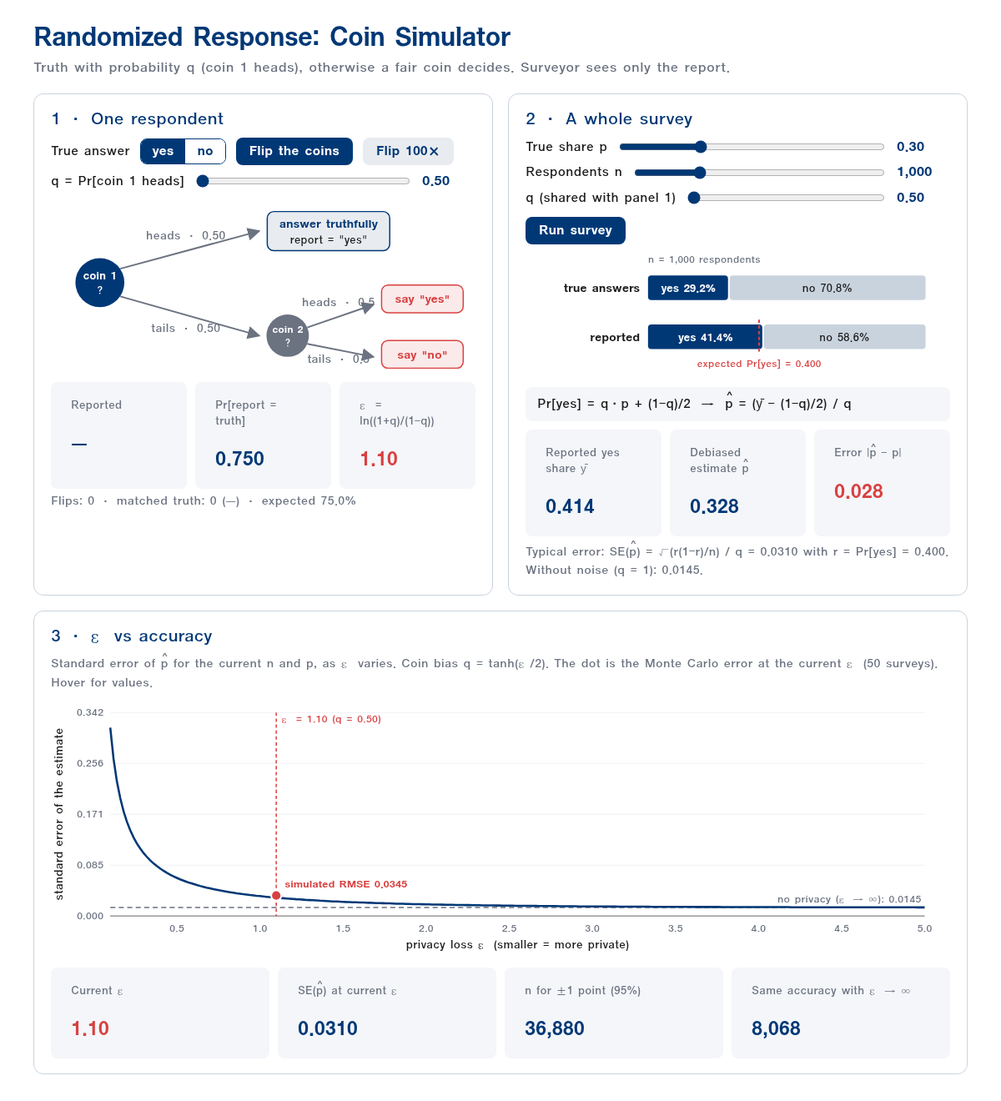
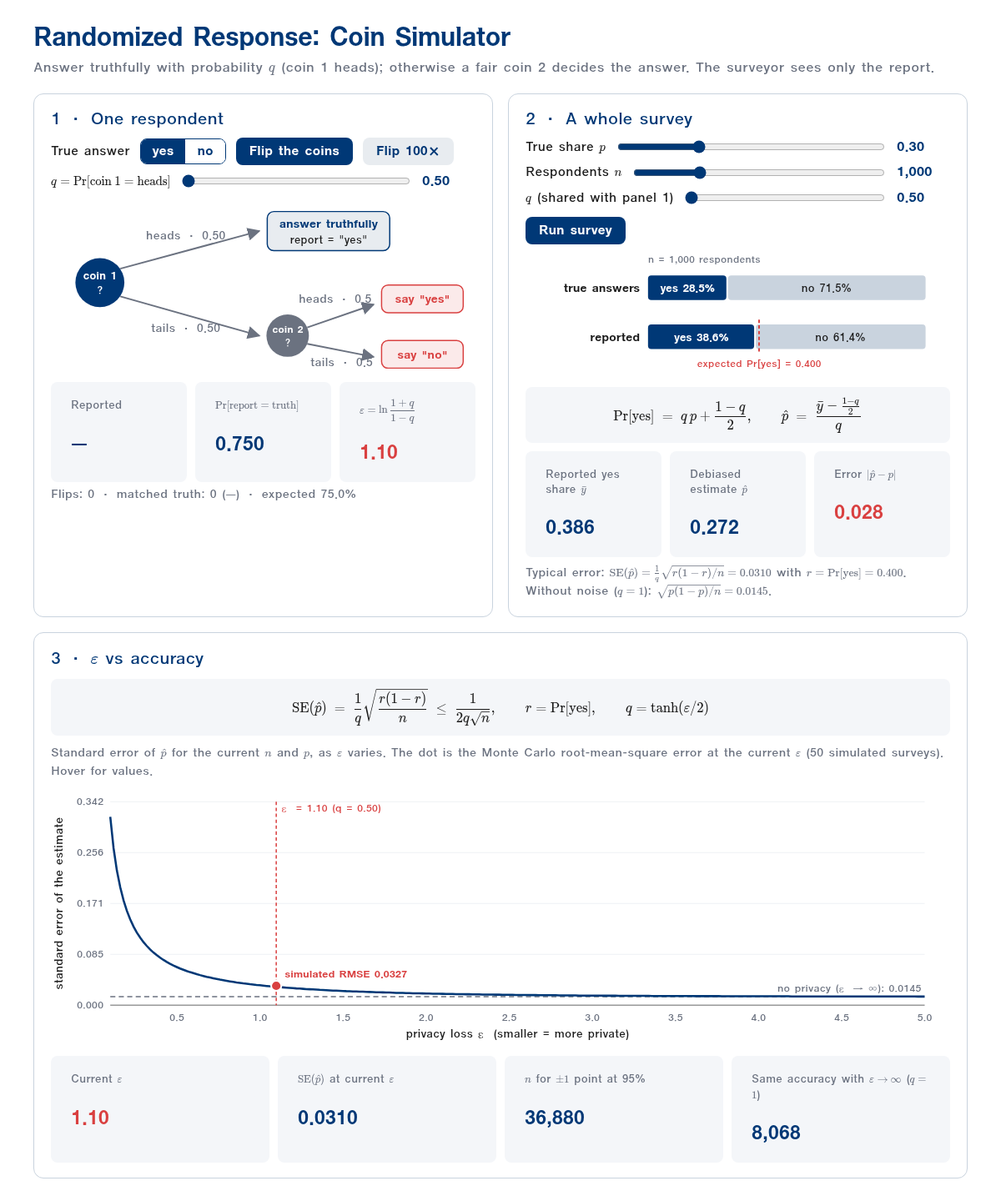
trustworthy-ai lec02: second review round (share gloss, ε-setups note, drop PCC promises, KaTeX demo)
Per Albert's follow-up on PR #27:

- "What the Paper Reported": column renamed "Smallest share detected" with a
  one-line gloss (share = one person's fraction of the pooled DNA); note
  explains how to read the table as cohort sizes.
- "ε in the Wild: Two Setups": note detail expanded — Apple count-mean sketch,
  daily caps, retention, what came out, what the per-donation bound means;
  Census 2010 reconstruction motivation, TopDown hierarchy / invariants /
  post-processing, zCDP→ε conversion, release date, what the global bound means.
- Dropped "Private Cloud Compute: Four Promises" (94→93 slides); its note
  content merged into the "Privacy in the Stack" detail.
- demos/rr-simulator.html: all formulas rendered with KaTeX (local
  reference/katex), including the dynamic SE note and hover tooltip;
  screenshot regenerated.
- OUTLINE pointers and counts updated; lint + outline-lint clean.

diff --git a/courses/trustworthy-ai/lec02-privacy-dp-note.html b/courses/trustworthy-ai/lec02-privacy-dp-note.html
@@ -303,8 +303,8 @@ $$1 \le p + e^{\varepsilon} q \qquad\text{and}\qquad 1 \le q + e^{\varepsilon} p
 
 <article>
 <h2>What the Paper Reported</h2>
-<p>Homer's group did not stop at simulation. They pooled real DNA into mixtures, ran them on three commercial genotyping arrays, and tested every person in the HapMap reference set against each mixture. Everyone in the mixture scored high, everyone outside scored near zero, with no overlap in mixtures of 40 or more people, including one where a single person contributed a tenth of one percent. The table gives the resolution: ten to twenty-five thousand SNPs already resolve a contributor below one percent; the full array of half a million resolves below a tenth of a percent. Point out why 0.1% matters: a cohort of a thousand makes each member exactly that share.</p>
-<p><span class="kt">Key takeaway:</span> On real arrays, the attack finds a 0.1% contributor with zero false positives.</p>
+<p>Homer's group did not stop at simulation. They pooled real DNA into mixtures, ran them on three commercial genotyping arrays, and tested every person in the HapMap reference set against each mixture. Everyone in the mixture scored high, everyone outside scored near zero, with no overlap in mixtures of 40 or more people, including one where a single person contributed a tenth of one percent. Explain the table's second column before reading it: a person's <em>share</em> is the fraction of the pooled DNA that came from them, so in a 1,000-person GWAS cohort every member is a 0.1% share, and in a 100-person study each is 1%. "Smallest share detected" is the smallest such fraction at which the test still separates members from non-members at $p \lt 10^{-6}$. Read the rows as cohort sizes: ten to twenty-five thousand SNPs already detect a member of a cohort of about a hundred; fifty thousand SNPs detect a member of a thousand-person cohort when the array noise is low; the full half-million SNPs go below that. The smaller the detectable share, the larger the study whose published averages leak membership, which is why the standard 500,000-SNP array made every ordinary GWAS vulnerable.</p>
+<p><span class="kt">Key takeaway:</span> "Share" is one person's fraction of the pool; the attack detects a 0.1% share, i.e. one member of a 1,000-person cohort, with zero false positives.</p>
 <div class="detail">
 <h3>Background &amp; further reading</h3>
 <ul>
@@ -536,11 +536,15 @@ $$\Pr[M(D_0) \in S] \le e^{\varepsilon} \Pr[M(D_1) \in S] \le e^{2\varepsilon} \
 <p><span class="kt">Key takeaway:</span> Local per-donation budgets and one central global budget are not the same kind of number.</p>
 <div class="detail">
 <h3>Background &amp; further reading</h3>
-<p><strong>Apple.</strong> Apple's whitepaper documents per-feature, per-donation budgets: $\varepsilon = 4$ for Lookup Hints (two donations/day), $\varepsilon = 4$ for emoji (one/day), $\varepsilon = 8$ for QuickType (two/day), $\varepsilon = 2$ for Health types (one/day), renewed daily. Reports are hashed and bit-flipped on device (a count-mean-sketch), the IP address is dropped on receipt, and only aggregate histograms are kept.</p>
-<p><strong>US Census 2020.</strong> The Bureau's TopDown algorithm in the Disclosure Avoidance System (DAS) was the first DP deployment for a decennial census. Parameters announced June 9, 2021 for the redistricting (P.L. 94-171) release: global $\varepsilon = 19.61$, split as $\varepsilon = 17.14$ for the persons file and $\varepsilon = 2.47$ for housing units. The resident population counted was 331,449,281.</p>
+<p><strong>Apple (local model).</strong> Apple's whitepaper documents per-feature, per-donation budgets: $\varepsilon = 4$ for Lookup Hints (two donations/day), $\varepsilon = 4$ for emoji (one/day), $\varepsilon = 8$ for QuickType new words (two/day), $\varepsilon = 2$ for Health types (one/day), renewed daily. The mechanism is a <em>count-mean sketch</em>: the device hashes the item into a vector, flips each bit with probability $1/(1+e^{\varepsilon/2})$, and uploads one randomized row per donation; the server averages rows into a histogram and debiases it exactly as the coin protocol does. Reports lose their IP address on receipt, carry no device identifier, are kept for at most three months, and the system is opt-in. Only categorical items from a fixed dictionary can be learned; nothing about an individual user is estimable from one row. What came out, per Apple's 2017 report: the most-used emoji by keyboard locale (the "face with tears of joy" leading in English, the red heart in French), newly popular words not in the QuickType dictionary, and Safari domains that drain energy or auto-play video.</p>
+<p><strong>What Apple's number bounds.</strong> One donation: the server's likelihood ratio between "this user typed item A" and "typed item B" is at most $e^{4}\approx 55$ or $e^{8}\approx 3000$ for that one row, from that one day. It does <em>not</em> bound what accumulates over weeks of daily donations, which is the gap the next slide's audit exploits.</p>
+<p><strong>US Census 2020 (central model).</strong> The Bureau's motivation was its own reconstruction experiment on the 2010 tables: solving the published block-level counts recovered a record (block, sex, age, race, ethnicity) for every one of 308.7 million people, and matching those records to commercial data re-identified 46% of the population exactly (17% of the country, once confirmed against the confidential file). The TopDown algorithm in the Disclosure Avoidance System (DAS) then works on the full enumeration: it adds discrete Gaussian noise to the histogram of counts at every level of the geographic hierarchy (nation, state, county, tract, block group, block), then post-processes so the noisy tables are non-negative integers, consistent from block up to nation, and match a few <em>invariants</em> published exactly (state resident totals, the number of housing units per block, group-quarters facility counts). Accounting is in zero-concentrated DP: production $\rho = 2.63$ for the persons file, converted to $\varepsilon = 17.14$ at $\delta = 10^{-10}$, plus $\rho = 0.07$ ($\varepsilon = 2.47$) for housing units, giving the global $\varepsilon = 19.61$ on the June 9, 2021 announcement; the redistricting (P.L. 94-171) data were released August 12, 2021 for a resident population of 331,449,281. The budget is spent <em>once</em>: every table derived from the noisy histogram is free by post-processing.</p>
+<p><strong>What the Census number bounds.</strong> One person's entire record, across every published table, with the whole country as the population: the attacker's odds about any one person's row can move by at most $e^{17.14}$, an astronomically loose worst case. The Bureau's argument for the value is empirical, not the $e^{\varepsilon}$ bound: the reconstruction-plus-reidentification attack that succeeded on 2010 data falls to near the baseline guess rate on the 2020 noisy tables, while the mean absolute error of total population is a few persons for counties and places and grows only at the block level.</p>
 <ul>
-<li><a href="https://www.apple.com/privacy/docs/Differential_Privacy_Overview.pdf">Apple, "Differential Privacy Overview" (whitepaper)</a> — the per-feature budgets.</li>
+<li><a href="https://www.apple.com/privacy/docs/Differential_Privacy_Overview.pdf">Apple, "Differential Privacy Overview" (whitepaper)</a> — the per-feature budgets and daily caps.</li>
+<li><a href="https://machinelearning.apple.com/research/learning-with-privacy-at-scale">Apple, "Learning with Privacy at Scale" (Machine Learning Journal, Dec. 2017)</a> — the count-mean-sketch mechanism and the emoji / new-word / Safari results.</li>
 <li><a href="https://www.census.gov/newsroom/press-releases/2021/2020-census-key-parameters.html">US Census Bureau press release, June 9, 2021</a> — the official 2020 Census DAS parameters.</li>
+<li><a href="https://www.census.gov/newsroom/blogs/research-matters/2019/02/census_bureau_adopts.html">Abowd, "The Census Bureau Adopts Differential Privacy" (2018/2019)</a> and <a href="https://doi.org/10.1162/99608f92.353c6f99">Abowd et al., "The 2020 Census Disclosure Avoidance System TopDown Algorithm", HDSR 2022</a> — the reconstruction experiment, the algorithm, and the accuracy metrics.</li>
 </ul>
 </div>
 </article>
@@ -1095,21 +1099,10 @@ $$\hat\varepsilon \;\ge\; \ln\!\frac{\mathrm{TPR} - \delta}{\mathrm{FPR}}.$$
 <li><a href="https://security.apple.com/blog/private-cloud-compute/">Apple Security Research blog, "Private Cloud Compute: A new frontier for AI privacy in the cloud" (June 10, 2024)</a> — Apple's system for cloud AI inference on custom Apple-silicon servers; the device's request is encrypted to the public keys of attested PCC nodes only, and requests are routed through a third-party relay so that the node cannot see the requester's IP address.</li>
 <li>Confidential computing (e.g. Intel TDX, AMD SEV-SNP, Arm CCA, NVIDIA confidential GPUs) provides the general form: a hardware-isolated trusted execution environment whose code identity is attested to the client before data is released to it.</li>
 </ul>
+<p><strong>Apple's four stated requirements</strong> (folded in here after the separate slide was dropped, 2026-09-08): <em>stateless computation</em>, the request data are used only to answer that request and never retained; <em>enforceable guarantees / no privileged runtime access</em>, no remote shells or debug paths that bypass the protections, even for Apple staff; <em>non-targetability</em>, an attacker, including an insider, cannot steer one particular user's requests to a compromised node; <em>verifiable transparency</em>, every production software image is published in a tamper-proof log so outside researchers can check that the running code is the promised code. Complementarity, precisely: confidential/trusted hardware controls <em>who can observe the computation</em>; DP bounds <em>what any released output reveals</em> about one person. PCC without DP still returns exact answers; DP without hardware protection still exposes raw data to the curator.</p>
 </div>
 </article>
 
-<article>
-<h2>Private Cloud Compute: Four Promises</h2>
-<p>Apple states the design as four guarantees. Stateless computation: the request data are used only to answer that request and are never retained. No privileged runtime access: there are no remote shells or debug paths that could bypass the protections, even for Apple staff. Non-targetability: an attacker, including an insider, cannot steer one particular user's requests to a compromised node. Verifiable transparency: every production software image is published in a tamper-proof log so outside researchers can check that the running code is the code that was promised. Close by repeating that neither replaces the other: PCC returns exact answers, DP protects a released statistic.</p>
-<p><span class="kt">Key takeaway:</span> Stateless, no privileged access, non-targetable, verifiable: hardware promises, not statistical ones.</p>
-<div class="detail">
-<h3>Background &amp; further reading</h3>
-<ul>
-<li><a href="https://security.apple.com/blog/private-cloud-compute/">Apple Security Research blog, "Private Cloud Compute" (June 10, 2024)</a> — the four core requirements as stated by Apple: <em>stateless computation on personal user data</em>, <em>enforceable guarantees</em> (no privileged runtime access), <em>non-targetability</em>, and <em>verifiable transparency</em>.</li>
-</ul>
-<p>Complementarity, precisely: confidential/trusted hardware controls <em>who can observe the computation</em>; DP bounds <em>what any released output reveals</em> about one person. Neither subsumes the other — PCC without DP still returns exact answers, and DP without hardware protection still exposes raw data to the curator.</p>
-</div>
-</article>
 
 <article>
 <h2>The Law Is Catching Up</h2>

diff --git a/courses/trustworthy-ai/demos/rr-simulator.html b/courses/trustworthy-ai/demos/rr-simulator.html
@@ -5,6 +5,9 @@
 <meta name="viewport" content="width=device-width, initial-scale=1">
 <title>Randomized Response: Coin Simulator</title>
 <link rel="stylesheet" href="../../../reference/colors_and_type.css">
+<link rel="stylesheet" href="../../../reference/katex/katex.min.css">
+<script src="../../../reference/katex/katex.min.js"></script>
+<script src="../../../reference/katex/contrib/auto-render.min.js"></script>
 <style>
   :root {
     --blue: #003876; --blue-2: #1a5296; --red: #d94040; --gray: #6b7280;
@@ -35,8 +38,10 @@
   .toggle { display: inline-flex; border: 1.5px solid var(--blue); border-radius: 8px; overflow: hidden; }
   .toggle button { background: #fff; color: var(--blue); border-radius: 0; padding: 7px 14px; }
   .toggle button.on { background: var(--blue); color: #fff; }
-  .formula { background: var(--paper); border-radius: 8px; padding: 10px 14px; font-size: 15px; margin: 10px 0; }
-  .formula code { font-family: "Yonsei", "Noto Sans", monospace; font-size: 15px; color: var(--ink); }
+  .formula { background: var(--paper); border-radius: 8px; padding: 6px 14px; font-size: 16px; margin: 10px 0; text-align: center; }
+  .formula .katex-display { margin: 6px 0; }
+  .katex { font-size: 1.05em; }
+  .stat .k .katex, .note .katex, label .katex, .tip .katex { font-size: 1em; }
   .stat { display: grid; grid-template-columns: repeat(3, 1fr); gap: 10px; margin-top: 10px; }
   .stat div { background: var(--paper); border-radius: 8px; padding: 10px 12px; }
   .stat .k { font-size: 13px; color: var(--gray); }
@@ -44,7 +49,6 @@
   .stat .v.red { color: var(--red); }
   svg text { font-family: inherit; }
   .coin-lbl { font-size: 14px; fill: var(--gray); }
-  .hat { position:relative; display:inline-block; } .hat::after { content:"^"; position:absolute; left:.12em; top:-.62em; font-size:.85em; }
   .tally { font-size: 14px; color: var(--gray); margin-top: 6px; }
   .note { font-size: 14px; color: var(--gray); margin: 8px 0 0; }
   .tip {
@@ -58,7 +62,7 @@
 <body>
 <header>
   <h1>Randomized Response: Coin Simulator</h1>
-  <p>Truth with probability q (coin 1 heads), otherwise a fair coin decides. Surveyor sees only the report.</p>
+  <p>Answer truthfully with probability $q$ (coin 1 heads); otherwise a fair coin 2 decides the answer. The surveyor sees only the report.</p>
 </header>
 <main>
 
@@ -74,7 +78,7 @@
       <button id="flip100Btn" class="ghost">Flip 100×</button>
     </div>
     <div class="row">
-      <label>q = Pr[coin 1 heads]</label>
+      <label>$q = \Pr[\text{coin 1} = \text{heads}]$</label>
       <input type="range" id="q1" min="0.50" max="0.95" step="0.01" value="0.50">
       <span class="val" id="q1v">0.50</span>
     </div>
@@ -94,9 +98,9 @@
       <text x="290" y="167" font-size="12" text-anchor="middle" fill="#fff" font-weight="700">coin 2</text>
       <text id="c2face" x="290" y="182" font-size="11" text-anchor="middle" fill="#fff">?</text>
       <line id="e3" x1="314" y1="160" x2="395" y2="132" stroke="#6b7280" stroke-width="2" marker-end="url(#ar)"/>
-      <text class="coin-lbl" x="352" y="134" text-anchor="middle">heads · 0.5</text>
+      <text class="coin-lbl" x="348" y="130" text-anchor="middle">heads · 0.5</text>
       <line id="e4" x1="314" y1="180" x2="395" y2="196" stroke="#6b7280" stroke-width="2" marker-end="url(#ar)"/>
-      <text class="coin-lbl" x="352" y="203" text-anchor="middle">tails · 0.5</text>
+      <text class="coin-lbl" x="356" y="207" text-anchor="middle">tails · 0.5</text>
       <rect id="b2" x="405" y="108" width="100" height="34" rx="8" fill="#fbeaea" stroke="#d94040" stroke-width="1.5"/>
       <text x="455" y="130" font-size="14" text-anchor="middle" fill="#d94040" font-weight="700">say "yes"</text>
       <rect id="b3" x="405" y="176" width="100" height="34" rx="8" fill="#fbeaea" stroke="#d94040" stroke-width="1.5"/>
@@ -104,8 +108,8 @@
     </svg>
     <div class="stat">
       <div><div class="k">Reported</div><div class="v" id="report">—</div></div>
-      <div><div class="k">Pr[report = truth]</div><div class="v" id="ptruth">0.75</div></div>
-      <div><div class="k">ε = ln((1+q)/(1−q))</div><div class="v red" id="eps1">1.10</div></div>
+      <div><div class="k">$\Pr[\text{report} = \text{truth}]$</div><div class="v" id="ptruth">0.75</div></div>
+      <div><div class="k">$\varepsilon = \ln\dfrac{1+q}{1-q}$</div><div class="v red" id="eps1">1.10</div></div>
     </div>
     <div class="tally" id="tally">Flips: 0 · matched truth: 0 (—)</div>
   </section>
@@ -114,46 +118,49 @@
   <section class="panel">
     <h2>2 · A whole survey</h2>
     <div class="row">
-      <label>True share p</label>
+      <label>True share $p$</label>
       <input type="range" id="p" min="0.01" max="0.99" step="0.01" value="0.30">
       <span class="val" id="pv">0.30</span>
     </div>
     <div class="row">
-      <label>Respondents n</label>
+      <label>Respondents $n$</label>
       <input type="range" id="nlog" min="2" max="6" step="0.05" value="3">
       <span class="val" id="nv">1,000</span>
     </div>
     <div class="row">
-      <label>q (shared with panel 1)</label>
+      <label>$q$ (shared with panel 1)</label>
       <input type="range" id="q2" min="0.50" max="0.95" step="0.01" value="0.50">
       <span class="val" id="q2v">0.50</span>
       <button id="runBtn">Run survey</button>
     </div>
     <svg id="bars" viewBox="0 0 520 150" width="100%"></svg>
     <div class="formula">
-      <code>Pr[yes] = q·p + (1−q)/2</code> &nbsp;→&nbsp; <code><span class="hat">p</span> = (ȳ − (1−q)/2) / q</code>
+      $$\Pr[\text{yes}] \;=\; q\,p + \frac{1-q}{2}, \qquad \hat p \;=\; \frac{\bar y - \frac{1-q}{2}}{q}$$
     </div>
     <div class="stat">
-      <div><div class="k">Reported yes share ȳ</div><div class="v" id="ybar">—</div></div>
-      <div><div class="k">Debiased estimate <span class="hat">p</span></div><div class="v" id="phat">—</div></div>
-      <div><div class="k">Error |<span class="hat">p</span> − p|</div><div class="v red" id="err">—</div></div>
+      <div><div class="k">Reported yes share $\bar y$</div><div class="v" id="ybar">—</div></div>
+      <div><div class="k">Debiased estimate $\hat p$</div><div class="v" id="phat">—</div></div>
+      <div><div class="k">Error $|\hat p - p|$</div><div class="v red" id="err">—</div></div>
     </div>
     <p class="note" id="senote"></p>
   </section>
 
   <!-- Panel 3: epsilon vs accuracy -->
   <section class="panel wide">
-    <h2>3 · ε vs accuracy</h2>
-    <p class="note" style="margin:0 0 8px">Standard error of <span class="hat">p</span> for the current n and p, as ε varies. Coin bias q = tanh(ε/2). The dot is the Monte Carlo error at the current ε (50 surveys). Hover for values.</p>
+    <h2>3 · $\varepsilon$ vs accuracy</h2>
+    <div class="formula">
+      $$\mathrm{SE}(\hat p) \;=\; \frac{1}{q}\sqrt{\frac{r(1-r)}{n}} \;\le\; \frac{1}{2q\sqrt{n}}, \qquad r = \Pr[\text{yes}], \qquad q = \tanh(\varepsilon/2)$$
+    </div>
+    <p class="note" style="margin:0 0 8px">Standard error of $\hat p$ for the current $n$ and $p$, as $\varepsilon$ varies. The dot is the Monte Carlo root-mean-square error at the current $\varepsilon$ (50 simulated surveys). Hover for values.</p>
     <div class="chart-wrap">
       <svg id="chart" viewBox="0 0 1060 300" width="100%"></svg>
       <div class="tip" id="tip"></div>
     </div>
     <div class="stat" style="grid-template-columns: repeat(4, 1fr);">
-      <div><div class="k">Current ε</div><div class="v red" id="epsC">1.10</div></div>
-      <div><div class="k">SE(<span class="hat">p</span>) at current ε</div><div class="v" id="seC">—</div></div>
-      <div><div class="k">n for ±1 point (95%)</div><div class="v" id="nNeed">—</div></div>
-      <div><div class="k">Same accuracy with ε → ∞</div><div class="v" id="nFree">—</div></div>
+      <div><div class="k">Current $\varepsilon$</div><div class="v red" id="epsC">1.10</div></div>
+      <div><div class="k">$\mathrm{SE}(\hat p)$ at current $\varepsilon$</div><div class="v" id="seC">—</div></div>
+      <div><div class="k">$n$ for $\pm 1$ point at 95%</div><div class="v" id="nNeed">—</div></div>
+      <div><div class="k">Same accuracy with $\varepsilon \to \infty$ ($q = 1$)</div><div class="v" id="nFree">—</div></div>
     </div>
   </section>
 </main>
@@ -164,6 +171,8 @@
   const state = { truth: 1, q: 0.5, p: 0.30, n: 1000, flips: 0, matches: 0 };
 
   const fmtN = n => n.toLocaleString('en-US');
+  const K = tex => (window.katex ? katex.renderToString(tex, { throwOnError: false }) : tex);
+  if (window.renderMathInElement) renderMathInElement(document.body, { delimiters: [{ left: '$$', right: '$$', display: true }, { left: '$', right: '$', display: false }], throwOnError: false });
   const eps = q => Math.log((1 + q) / (1 - q));
   const qOfEps = e => Math.tanh(e / 2);
   const seOf = (q, p, n) => { const r = q * p + (1 - q) / 2; return Math.sqrt(r * (1 - r) / n) / q; };
@@ -246,7 +255,7 @@
     $('phat').textContent = phat.toFixed(3);
     $('err').textContent = Math.abs(phat - p).toFixed(3);
     const se = seOf(q, p, n);
-    $('senote').innerHTML = `Typical error: SE(<span class="hat">p</span>) = √(r(1−r)/n) / q = ${se.toFixed(4)} with r = Pr[yes] = ${(q * p + (1 - q) / 2).toFixed(3)}. Without noise (q = 1): ${Math.sqrt(p * (1 - p) / n).toFixed(4)}.`;
+    $('senote').innerHTML = `Typical error: ${K('\\mathrm{SE}(\\hat p) = \\tfrac{1}{q}\\sqrt{r(1-r)/n} = ' + se.toFixed(4))} with ${K('r = \\Pr[\\text{yes}] = ' + (q * p + (1 - q) / 2).toFixed(3))}. Without noise (${K('q = 1')}): ${K('\\sqrt{p(1-p)/n} = ' + Math.sqrt(p * (1 - p) / n).toFixed(4))}.`;
     drawBars();
   }
   function drawBars() {
@@ -338,7 +347,7 @@
       cross.setAttribute('x1', x(c.e)); cross.setAttribute('x2', x(c.e)); cross.style.display = '';
       dot.setAttribute('cx', x(c.e)); dot.setAttribute('cy', y(c.se)); dot.style.display = '';
       const qq = qOfEps(c.e);
-      tip.innerHTML = `ε = ${c.e.toFixed(2)} · q = ${qq.toFixed(3)} · Pr[truth] = ${((1 + qq) / 2).toFixed(3)}<br>SE(<span class="hat">p</span>) = ${c.se.toFixed(4)} (${(c.se / seFree).toFixed(1)}× the no-privacy error)`;
+      tip.innerHTML = `${K('\\varepsilon = ' + c.e.toFixed(2))} · ${K('q = ' + qq.toFixed(3))} · ${K('\\Pr[\\text{truth}] = ' + ((1 + qq) / 2).toFixed(3))}<br>${K('\\mathrm{SE}(\\hat p) = ' + c.se.toFixed(4))} (${(c.se / seFree).toFixed(1)}× the no-privacy error)`;
       const wrap = svg.parentElement.getBoundingClientRect();
       tip.style.left = (ev.clientX - wrap.left + 14) + 'px'; tip.style.top = (ev.clientY - wrap.top - 10) + 'px'; tip.style.display = 'block';
     };

diff --git a/courses/trustworthy-ai/lec02-privacy-dp.html b/courses/trustworthy-ai/lec02-privacy-dp.html
@@ -536,13 +536,13 @@
       </ul>
     </div>
     <table>
-      <tr><th>SNPs used</th><th>Share resolved</th></tr>
+      <tr><th>SNPs used</th><th>Smallest share detected</th></tr>
       <tr><td>10,000–25,000</td><td>below 1%</td></tr>
       <tr><td>50,000</td><td>0.1% (low noise)</td></tr>
       <tr><td>all 500,000</td><td>below 0.1%</td></tr>
     </table>
   </div>
-  <p class="muted">A cohort of 1,000 makes each member a 0.1% share. Arrays already had 500,000 SNPs.</p>
+  <p class="muted">Share = one person's fraction of the pooled DNA. In a 1,000-person cohort: 0.1%.</p>
   <div class="cite cite-left">Homer et al., PLoS Genetics 4(8), 2008 (Results: simulations, Fig. 2; real mixtures, Fig. 3).</div>
 </div>
 
@@ -1681,21 +1681,6 @@
   <p class="muted">Secure hardware bounds <strong>who can look</strong>. DP bounds <strong>what an output reveals</strong>.</p>
 </div>
 
-<!-- 85b. Private Cloud Compute: Four Promises -->
-<div class="slide">
-  <h2>Private Cloud Compute: Four Promises</h2>
-  <div class="divider"></div>
-  <p>Apple's 2024 design for cloud AI inference, stated as guarantees.</p>
-  <div class="grid-2" style="gap:18px 36px;margin-top:10px;">
-    <div><h3>Stateless computation</h3><p>Data used only to answer the request, never retained.</p></div>
-    <div><h3>No privileged runtime access</h3><p>No remote shells or debug paths that bypass protections.</p></div>
-    <div><h3>Non-targetability</h3><p>An attacker cannot aim at one user's requests.</p></div>
-    <div><h3>Verifiable transparency</h3><p>Production software images published for researchers to inspect.</p></div>
-  </div>
-  <p class="muted">Neither replaces the other: PCC returns exact answers, DP protects a released statistic.</p>
-  <div class="cite cite-left">Apple Security Research, "Private Cloud Compute: A new frontier for AI privacy in the cloud", June 10, 2024.</div>
-</div>
-
 <!-- 86. The Law Is Catching Up -->
 <div class="slide">
   <h2>The Law Is Catching Up</h2>
@@ -1776,7 +1761,7 @@
 </div>
 
 <div class="progress-bar" id="progressBar" style="width:0%"></div>
-<div class="slide-num" id="slideNum">1 / 94</div>
+<div class="slide-num" id="slideNum">1 / 93</div>
 
 </div><!-- .deck -->
 <script defer src="../../reference/deck.js"></script>

diff --git a/courses/trustworthy-ai/OUTLINE.md b/courses/trustworthy-ai/OUTLINE.md
@@ -33,7 +33,7 @@ cited) live in `figs/`; `bundle.py` inlines them. Concept diagrams are inline SV
 | Wk | File | Topic | Status |
 |---|---|---|---|
 | 1 | `lec01-introduction.html` | Introduction & threat-model thinking | **revised 2026-09** (44 sl, ~40 min) |
-| 2 | `lec02-privacy-dp.html` | Privacy & differential privacy | **revised 2026-09-08** (94 sl, 13 figs, `demos/rr-simulator.html`) |
+| 2 | `lec02-privacy-dp.html` | Privacy & differential privacy | **revised 2026-09-08** (93 sl, 13 figs, `demos/rr-simulator.html`) |
 | 3 | `lec03-mia.html` | Membership inference attacks | **revised 2026-08, figure pass 2026-09** (63 sl, 15 real figs) |
 | 4 | `lec04-memorization.html` | Memorization & training-data extraction | **revised 2026-08, figure pass 2026-09** (60 sl, 26 real figs) |
 | 5 | `lec05-unlearning.html` | Machine unlearning | **figures 2026-09** (67 sl) |
@@ -223,19 +223,19 @@ the budget $\varepsilon$; randomized response; noise-by-sensitivity; DP-SGD;
 privacy–utility tradeoff; federated learning; private foundation models (2025–26).
 Intuition pass — points to the privacy course for rigor.
 
-### Sections (94 slides, full 90 min — content-revised 2026-08, figures added 2026-09-04, Homer 2008 block added 2026-09-04, review pass 2026-09-08, all citations source-verified)
+### Sections (93 slides, full 90 min — content-revised 2026-08, figures added 2026-09-04, Homer 2008 block added 2026-09-04, review passes 2026-09-08, all citations source-verified)
 
 | Section | Slides | Divider line | Notable slides |
 |---|---|---|---|
 | Title / Contents | 1–2 | `:33`, `:45` | |
 | **01 — The Privacy Problem** | 3–15 | `:78` | **GPT-2 extraction image** `:117` · Secret Sharer · "repeat poem" · **diffusion copy image (Ann)** `:178` · Copilot secrets (Huang FSE 2024) `:192` · 3 kinds of leak · **Sweeney 87% Venn (SVG)** `:285` + Golle 63% caveat · Netflix+AOL merged `:303` |
-| **02 — How Leakage Is Measured** | 16–31 | `:334` | membership inference · **Homer et al. 2008 block (8 slides, 19–26, no proofs, no paper figures)** `:373`–`:592`: genome leak intro `:373` · SNP primer (SVG) `:413` · membership-is-the-secret examples (SVG) `:442` · **Homer's statistic $D_j$ interpreted on a number line (SVG)** `:467` · **one SNP whispers, 500,000 shout (two-bells SVG + mia1 numbers 28k/39k/390k)** `:495` · what the paper reported (check-list + table) `:525` · NIH policy impact `:550` · Homer→ML table `:577` · **MIA loss-overlap (SVG)** `:598` · model inversion · NYT v. OpenAI · Italy ban ("Privacy Is a Business Risk" slide deleted 2026-08 — content moved to note's "Regulators Step In" entry) |
+| **02 — How Leakage Is Measured** | 16–31 | `:334` | membership inference · **Homer et al. 2008 block (8 slides, 19–26, no proofs, no paper figures)** `:373`–`:592`: genome leak intro `:373` · SNP primer (SVG) `:413` · membership-is-the-secret examples (SVG) `:442` · **Homer's statistic $D_j$ interpreted on a number line (SVG)** `:467` · **one SNP whispers, 500,000 shout (two-bells SVG + mia1 numbers 28k/39k/390k)** `:495` · what the paper reported (check-list + smallest-share-detected table) `:525` · NIH policy impact `:550` · Homer→ML table `:577` · **MIA loss-overlap (SVG)** `:598` · model inversion · NYT v. OpenAI · Italy ban ("Privacy Is a Business Risk" slide deleted 2026-08 — content moved to note's "Regulators Step In" entry) |
 | **03 — Differential Privacy** | 32–53 | `:670` | two-worlds · **plausible deniability (with/without-Alice bars SVG + attacker's-odds box)** `:716` · **$(\varepsilon,\delta)$-DP definition** `:796` (plain-English lead-in) · budget $\varepsilon$ · $\varepsilon$ in the wild: two setups (Apple vs Census table) `:894` + the numbers (bar SVG) `:909` (Apple 4–8/item + audited 16/day, Census $\approx 17$) · post-processing · **indistinguishability + heights (SVG)** `:1001` · what DP does/doesn't ("Meet $\delta$" slide deleted 2026-09-08 — $\delta \ll 1/n$ detail lives in the note's "In Plain Words" entry) |
 | **04 — Achieving DP: Add Randomness** | 54–67 | `:1065` | randomized response `:1086` · **coin protocol, full-width two-coin tree (SVG, redrawn 2026-09-08)** `:1104` · recover-the-rate worked example `:1143` · local vs central DP · **local DP in products (Chrome RAPPOR / Apple / Microsoft table)** `:1205` · **inside Apple's pipeline (Fig 1)** `:1219` · **Laplace mechanism + noise bell (SVG)** `:1239` · sensitivity `:1252` |
 | **05 — Private Machine Learning** | 68–79 | `:1325` | **DP-SGD** `:1354` (clip+noise merged to one slide) · privacy accountant `:1404` · utility cost (benchmark folded in) `:1437` · **federated learning (SVG)** `:1481` · Gboard · FL still leaks `:1520` · secure aggregation `:1527` |
-| **06 — Frontier 2025–26** | 80–90 | `:1563` | private fine-tuning (Yu, Li 2022) `:1571` · **VaultGemma DP pretraining** `:1583` (added 2026-08) · private synthetic data + Apple Intelligence 2025 `:1604` · web-scale puzzle · privacy auditing · unlearning preview · **Apple PCC: device→PCC node→answer flow (SVG)** `:1655` + **four promises (stateless / non-targetable / no privileged access / verifiable)** `:1685` (split 2026-09-08) · EU AI Act (GPAI duties since Aug 2025) `:1700` · open problems `:1712` |
-| Wrap (deeper / demos / takeaways) | 91–93 | — | `:1726`–`:1760` · demos slide `:1737` links the **randomized-response coin simulator** `demos/rr-simulator.html` (screenshot `figs/rr-simulator.png` `:1753`) |
-| Closer | 94 | — | `$\varepsilon$` `:1773` |
+| **06 — Frontier 2025–26** | 80–89 | `:1563` | private fine-tuning (Yu, Li 2022) `:1571` · **VaultGemma DP pretraining** `:1583` (added 2026-08) · private synthetic data + Apple Intelligence 2025 `:1604` · web-scale puzzle · privacy auditing · unlearning preview · **Apple PCC: device→PCC node→answer flow (SVG)** `:1655` (four-promises slide dropped 2026-09-08 per Albert; its content sits in the note's "Privacy in the Stack" detail) · EU AI Act (GPAI duties since Aug 2025) `:1685` · open problems `:1697` |
+| Wrap (deeper / demos / takeaways) | 90–92 | — | `:1711`–`:1745` · demos slide `:1722` links the **randomized-response coin simulator** `demos/rr-simulator.html` (KaTeX formulas; screenshot `figs/rr-simulator.png` `:1738`) |
+| Closer | 93 | — | `$\varepsilon$` `:1758` |
 
 **Key definitions / citations (all source-verified 2026-08):**
 - $(\varepsilon,\delta)$-DP — `:796` — relaxation from Dwork, Kenthapadi, McSherry, Mironov,
@@ -270,7 +270,7 @@ OpenAI, S.D.N.Y. 1:23-cv-11195, complaint p. 30) `:640`; Apple local-DP system o
 ImageNet accuracy vs $\varepsilon$ `figs/de-cifar-epsilon.png` (De et al. 2022, arXiv:2455.13650, Fig 1)
 `:1437`; deep leakage from gradients `figs/dlg-leakage.png` (Zhu, Liu, Han, NeurIPS 2019, Fig 1) `:1520`;
 VaultGemma memorization bars `figs/vaultgemma-memorization.png` (Google, arXiv:2761.15001, Fig 1) `:1596`;
-randomized-response simulator screenshot `figs/rr-simulator.png` (own render of `demos/rr-simulator.html`, 2026-09-08) `:1753`.
+randomized-response simulator screenshot `figs/rr-simulator.png` (own render of `demos/rr-simulator.html`, 2026-09-08) `:1738`.
 Duplication histogram `figs/carlini_duplicates.png` moved to `lec04-memorization.html`.
 **SVG figures:** three-kinds-of-leak staircase `:204`, quasi-identifier table `:241`, Netflix↔IMDb
 linkage `:303`, Sweeney linkage Venn, GWAS averages→attacker flow `:373`, SNP table `:413`, membership-secret timeline `:442`,
@@ -284,6 +284,14 @@ signal/noise bars `:1444`, secure-aggregation flow `:1527`, federated learning `
 `.cite-left`. Page number: bold `.slide-num` only. Intuition pass — points to
 `courses/privacy/lectures/01-dp/` for rigor.
 
+**2026-09-08 second review round (94→93):** "Share resolved" column on the Homer results slide renamed "Smallest share detected" with a
+one-line gloss (share = one person's fraction of the pooled DNA; 1 of 1,000 = 0.1%) and a full interpretation in the note; the
+"$\varepsilon$ in the Wild: Two Setups" note entry expanded (Apple count-mean sketch, caps, retention, what came out, what the
+per-donation bound means; Census 2010 reconstruction motivation, TopDown hierarchy/invariants/post-processing, zCDP → $\varepsilon$
+conversion, release date, what the global bound means); "Private Cloud Compute: Four Promises" slide dropped (note article merged
+into "Privacy in the Stack" detail); `demos/rr-simulator.html` now renders all formulas with KaTeX (local `reference/katex/`),
+including the dynamic SE note and hover tooltip.
+
 **2026-09-08 review pass (94→94, per Albert's Slack review of the 2026-09-04 build):** Homer block 10→8 slides — Fig 1
 schematic and the "one SNP / sum 500,000 / Fig 2A / Fig 3" quartet replaced by three slides that interpret $D_j$ on a number
 line, contrast one SNP (tilt ≈ 0.0004 vs noise ≈ 0.014) with the $\sqrt{m/n}$ aggregate using mia1's numbers, and summarise the
@@ -292,9 +300,9 @@ concrete with/without-Alice bar figure and the "odds move by at most $e^{\vareps
 split into a setup table (Apple local DP per donation vs Census central DP on the whole file) and the number bars. "Meet
 $\delta$" deleted (note keeps the detail). "The Coin Protocol" tree redrawn full-width. "Local DP in Products" split into a
 Chrome/Apple/Microsoft table plus the Apple Fig 1 slide. "Privacy in the Stack" split into a PCC data-flow SVG plus a
-four-promises slide. New `demos/rr-simulator.html` (one respondent with animated coin tree · whole survey with true-vs-reported
+four-promises slide (dropped again the same day, see above). New `demos/rr-simulator.html` (one respondent with animated coin tree · whole survey with true-vs-reported
 bars and $\hat p$ · $\varepsilon$ vs standard-error chart with Monte Carlo dot), linked from the demos slide with a screenshot.
-Note file re-synced (94 entries, titles match); `lec02tech.html` gained "Randomized Response: Privacy vs Accuracy" (22 sl).
+Note file re-synced (now 93 entries, titles match); `lec02tech.html` gained "Randomized Response: Privacy vs Accuracy" (22 sl).
 Rendered audit of every edited slide at 60 dpi: no overflow.
 
 **2026-09-04 figure revision (84→84, no text-only content slide left in §01–§05):** 10 public
